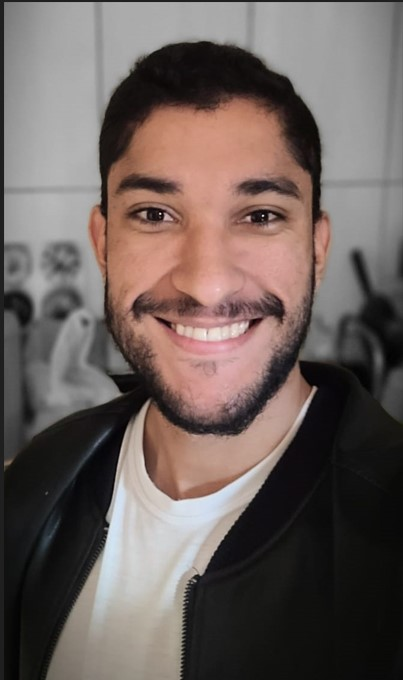
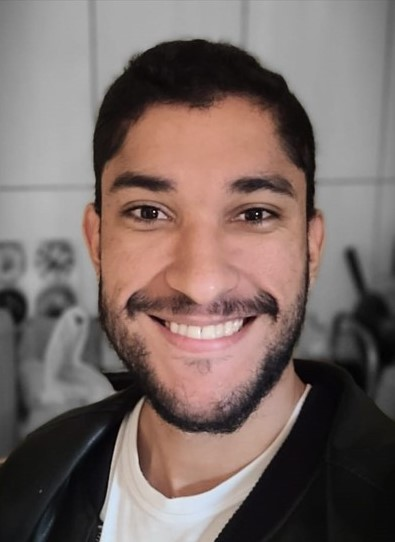
Corrigindo imagem do Fillipe

diff --git a/cv.html b/cv.html
@@ -21,10 +21,10 @@
     </header>  
 
     <main>
-        <h1 class="header-text">Projeto Integrador Proz Grupo 01 -
-        Turma 13</h1>  
-    <div id="ladoalado">       
+        <h1 class="header-text">Projeto Integrador Proz Grupo 01 - Turma 13</h1>  
+    <div id="ladoalado"> 
         
+        <!--Gilson-->        
         <div id="gilson">
             <div class="foto-gilson">
                 <img src="./imagens/Gilson.jpeg" alt="Minha foto" class="nossa-foto">
@@ -55,9 +55,11 @@
         <br>
         <br>
         <br>
+
+        <!--Marcelo-->
         <div id="marcelo">
 
-            <div class="foto-marcelo">  <!--Marcelo-->
+            <div class="foto-marcelo"> 
                 <img src="./imagens/Marcelo.jpg" alt="Minha foto" class="nossa-foto">
                 <h2>Marcelo Santos</h2>
                 <p>Breve resumo sobre mim</p>
@@ -85,37 +87,44 @@
         </div>
         <br>
         <br>
-        <br>
-
+        <br> 
+        <!--Fellipe-->
         <div id="fillipe">
-
-            <div class="foto-fillipe">   <!--Fillipe-->
-                <img src="./imagens/Fillip.jpg" alt="Minha foto" class="nossa-foto">
-                <h2>Fillipe Albuquerque</h2>
-                <p>Breve resumo sobre mim</p>
+            <div class="foto-fillipe">
+                <img src="./Imagens/Fillipe.jpg" alt="Minha foto" class="nossa-foto">
+                <h2>Gilson Ravaiani</h2>
+                <p>Breve resumo</p>
             </div>
             <br>
-            <div class="painel-fillipe">
+            <div class="painel-gilson">
             <section>
-                <a href="https://github.com/Fillipe-Albuquerque-Moreira-Dos-Santos" target="blank">GitHub</a>
+                <a href="https://github.com/GilsonRavaiani" target="blank">
+                GitHub <!--Testar SVG-->
+                </a>
             </section>
             <br>
             <section>
-                <a href="https://www.linkedin.com/in/fillipe30" target="blank">Linkedin</a>
+                <a href="https://www.linkedin.com/in/gilson-antunes-ravaiani/" target="blank">
+                Linkedin <!--Testar SVG-->            
+                </a>
             </section>
             <br>
             <section>
-                <a href="./" target="blank">
+                <a href="./CV/Gilson_Ravaiani.pdf" target="blank">
                 Currículo <!--Testar SVG-->                    
                 </a>
-                </section>
+            </section>
             </div>
-    
         </div>
-        
+        <br>
+        <br>
+        <br>
+
+       
+        <!--Erik-->
         <div id="erik">
 
-            <div class="foto-erik">  <!--Erik-->
+            <div class="foto-erik"> 
                 <img src="./imagens/Erick.jpg" alt="Minha foto" class="nossa-foto">
                 <h2>Erik Vasconcelos</h2>
                 <p>Breve resumo sobre mim</p>
